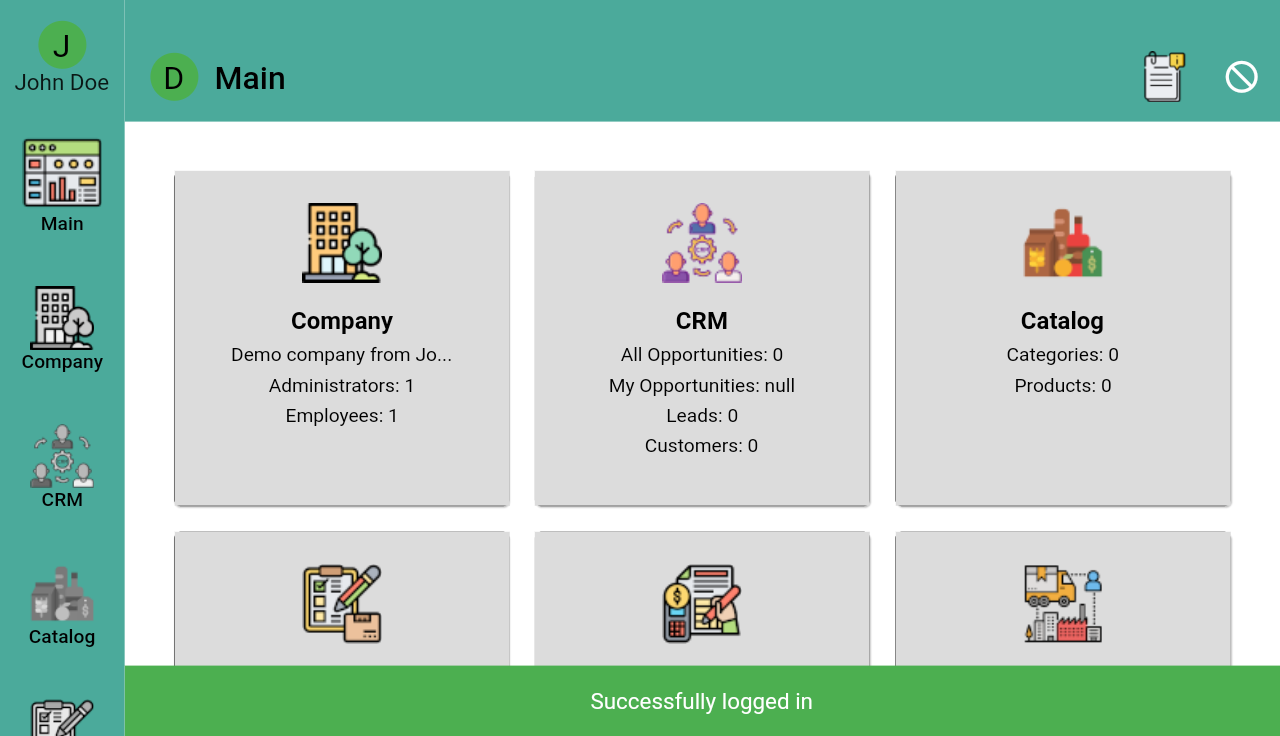
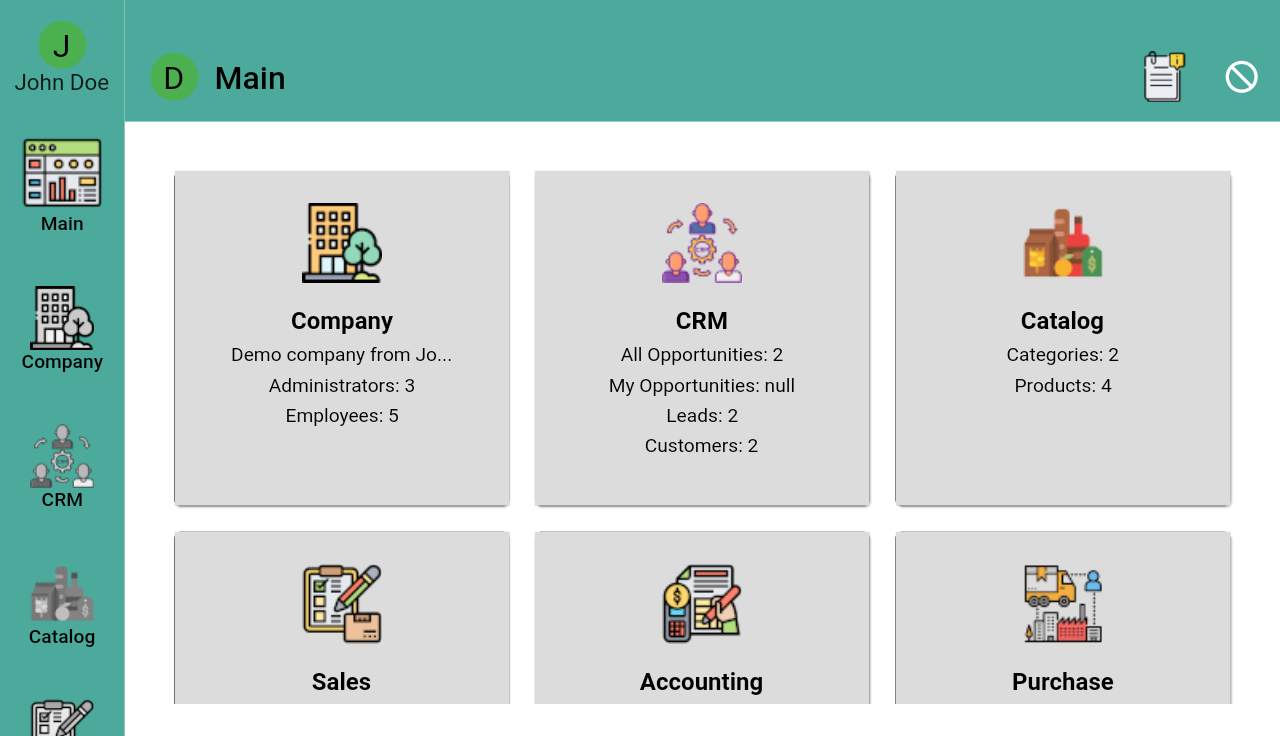
updated screenshots

Changed region(s): [[0.0938, 0.9062, 1.0, 1.0]]

diff --git a/lib/forms/home_form.dart b/lib/forms/home_form.dart
@@ -45,7 +45,7 @@ class _HomeFormState extends State<HomeForm> {
     bool isPhone = ResponsiveWrapper.of(context).isSmallerThan(TABLET);
     return BlocBuilder<AuthBloc, AuthState>(builder: (context, state) {
       if (state is AuthAuthenticated) {
-        Authenticate authenticate = state.authenticate!;
+        Authenticate authenticate = state.authenticate;
         return DisplayMenuList(
           scaffoldMessengerKey: scaffoldMessengerKey,
           menuList: menuItems,
@@ -71,14 +71,14 @@ class _HomeFormState extends State<HomeForm> {
       }
 
       if (state is AuthUnauthenticated) {
-        Authenticate? authenticate = state.authenticate;
+        Authenticate authenticate = state.authenticate;
         return ScaffoldMessenger(
             key: scaffoldMessengerKey,
             child: Scaffold(
                 appBar: AppBar(
                     key: Key('DashBoardUnAuth'),
                     title: companyLogo(context, authenticate,
-                        authenticate?.company?.name! ?? 'Company??')),
+                        authenticate.company?.name! ?? 'Company??')),
                 body: Center(
                     child: Column(children: <Widget>[
                   SizedBox(height: 100),
@@ -89,7 +89,7 @@ class _HomeFormState extends State<HomeForm> {
                           fontWeight: FontWeight.bold)),
                   SizedBox(height: 40),
                   Visibility(
-                      visible: authenticate?.company != null,
+                      visible: authenticate.company != null,
                       child: ElevatedButton(
                           key: Key('loginButton'),
                           child: Text('Login with an Existing ID'),
@@ -107,7 +107,7 @@ class _HomeFormState extends State<HomeForm> {
                       key: Key('newCompButton'),
                       child: Text('Create a new company and admin'),
                       onPressed: () async {
-                        authenticate?.company = null;
+                        authenticate.copyWith(company: null);
                         await showDialog(
                             barrierDismissible: true,
                             context: context,

diff --git a/test_driver/main_test.dart b/test_driver/main_test.dart
@@ -33,7 +33,7 @@ void main() {
   }
 
   Future<bool> isPresent(SerializableFinder finder, FlutterDriver driver,
-      {Duration timeout = const Duration(seconds: 1)}) async {
+      {Duration timeout = const Duration(seconds: 10)}) async {
     try {
       await driver.waitFor(finder, timeout: timeout);
       return true;
@@ -71,9 +71,24 @@ void main() {
     });
 
     test('Page tester', () async {
-      // login
-      await driver.tap(find.byValueKey('loginButton'));
-      await driver.tap(find.byValueKey('login'));
+      // check first if already logged in
+      if (await isPresent(find.byValueKey('DashBoardForm'), driver)) {
+        print('already logged in');
+      } else {
+        // check if company exist when not create
+        if (await isPresent(find.byValueKey('loginButton'), driver)) {
+          print('company already created, no need to create new');
+        } else {
+          await driver.tap(find.byValueKey('newCompButton'));
+          await driver.tap(find.byValueKey('newCompany'));
+          // allow demo data to be created
+          await Future.delayed(const Duration(seconds: 20));
+        }
+
+        // login
+        await driver.tap(find.byValueKey('loginButton'));
+        await driver.tap(find.byValueKey('login'));
+      }
 
       //dashboard and check if phone
       await driver.waitFor(find.byValueKey('DashBoardForm'));
@@ -117,6 +132,6 @@ void main() {
 
       // logout
       await driver.tap(find.byValueKey('logoutButton'));
-    }, timeout: Timeout(Duration(seconds: 60)));
+    }, timeout: Timeout(Duration(seconds: 600)));
   });
 }

diff --git a/lib/forms/dashBoard.dart b/lib/forms/dashBoard.dart
@@ -25,7 +25,7 @@ class DashBoardForm extends StatelessWidget {
   Widget build(BuildContext context) {
     return BlocBuilder<AuthBloc, AuthState>(builder: (context, state) {
       if (state is AuthAuthenticated) {
-        Authenticate authenticate = state.authenticate!;
+        Authenticate authenticate = state.authenticate;
         return Container(
           padding: EdgeInsets.symmetric(vertical: 20.0, horizontal: 20.0),
           child: GridView.count(

diff --git a/lib/main.dart b/lib/main.dart
@@ -38,9 +38,9 @@ Future main() async {
   String backend = GlobalConfiguration().getValue("backend");
   var repos = backend == 'moqui'
       ? Moqui(client: Dio())
-      : backend == 'ofbiz'
-          ? Ofbiz(client: Dio())
-          : null;
+//      : backend == 'ofbiz'
+//          ? Ofbiz(client: Dio())
+      : null;
 
   runApp(AdminApp(repos: repos!));
 }
